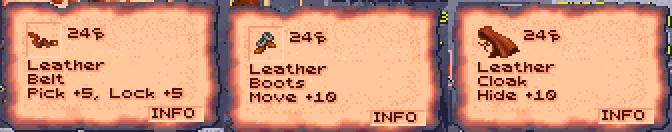
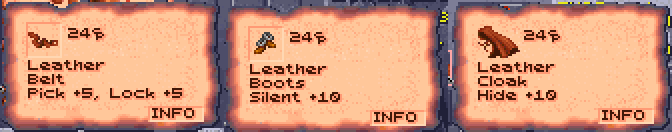
Move silently reads SLNT and Silent; the mod's magic gear glows on figures
The inventory's thief row reads SLNT (MOVE sat beside View Character's
movement), and the item boxes' stealth lines Silent +10 and Silent 95%,
so the Boots of Speed's box no longer reads as extra movement. The
Boots of Speed, the Elvenkind cloak and boots, the girdles and the
amulet glow on the party's figures by type (sprites.MAGIC_TYPES).
Checked in DOSBox; doc pictures retaken; helper sizes unchanged.

Claude-Session: https://claude.ai/code/session_01MpsiU94Q7CT44DgXwo8K6K

Changed region(s): [[0.375, 0.697, 0.5312, 0.7879], [0.3438, 0.0, 0.4062, 0.0606], [0.3125, 0.8788, 0.3438, 0.9697]]

diff --git a/patch-notes.html b/patch-notes.html
@@ -198,7 +198,7 @@ footer { max-width: 1080px; margin: 0 auto; padding-block: 28px 56px; border-top
 </section>
 <section id="graphics">
 <h2>Graphics</h2>
-<ul><li><span class="tag new">New</span>The party's figures show the weapons, shields, armour, helms and cloaks they wear, in each material's colours, walking and fighting.</li><li><span class="tag new">New</span>Magic gear glows on the party's figures: a weapon's bright edge, a shield's boss and rim, and sparks on armour, bracers, cloaks, helms, boots and belts shimmer in the animated colour nearest the item's icon: fire, green, violet or blue. The weapons spells make glow whole, the Flame Blade and Shillelagh in fire and Spiritual Hammer in blue, as do Kreenfang's blades. Boots of Elvenkind now show on the feet, in soft green.</li><li><span class="tag new">New</span>Nineteen of the game's magic items that sat still in their icons now shimmer, as its other magic items do: the Parting Staff, the Chameleon Gloves, the Hornblade, Cahulaks +1, Dag's Dagger, the Terror Blade, Blackmace, the Shimmer, Drake and Silk Armor, Tanelyv's and Grey's arm and leg pieces, the Living Cloak, the Golden Torque, Light of Dawn, El's Ring and the Orb of Knowledge. A plain item sharing an icon with one of them (plain cahulaks, a plain ring) keeps the still one.</li><li><span class="tag new">New</span>Elves have pointed ears.</li><li><span class="tag new">New</span>With ages on, a party member's hair greys on the map as they age: streaks when middle-aged, grey when old, white when venerable (with what the party wears shown).</li><li><span class="tag new">New</span>Half-elves no longer look like humans: a half-elf man is built like the elf, a little broader, with short fair hair, a leather jerkin, green trousers and pointed ears; a half-elf woman is a little slimmer than the human woman, with golden hair in a bun, pointed ears, a purple cloak and red boots.</li><li><span class="tag new">New</span>Every figure casts a soft shadow, and walkers kick up dust on sand and dirt.</li><li><span class="tag new">New</span>A thief or ranger hidden in shadows in a fight, and anyone invisible, is drawn half see-through.</li><li><span class="tag new">New</span>The 6th-level priest spells that stay on the map have pictures of their own: Blade Barrier's circling blades, Wall of Thorns' tangle of thorns, Fire Seeds' fireball and Whirlwind's tall, turning funnel of dust. The blades and thorns are Wake of the Ravager's, read from your copy (GOG sells it with Shattered Lands); without it they are the fire wall, recoloured.</li></ul>
+<ul><li><span class="tag new">New</span>The party's figures show the weapons, shields, armour, helms and cloaks they wear, in each material's colours, walking and fighting.</li><li><span class="tag new">New</span>Magic gear glows on the party's figures: a weapon's bright edge, a shield's boss and rim, and sparks on armour, bracers, cloaks, helms, boots and belts shimmer in the animated colour nearest the item's icon: fire, green, violet or blue. The weapons spells make glow whole, the Flame Blade and Shillelagh in fire and Spiritual Hammer in blue, as do Kreenfang's blades. Boots of Elvenkind now show on the feet, in soft green. The mod's magic gear with no plus (the Boots of Speed, the Elvenkind cloak and boots, the girdles) glows too.</li><li><span class="tag new">New</span>Nineteen of the game's magic items that sat still in their icons now shimmer, as its other magic items do: the Parting Staff, the Chameleon Gloves, the Hornblade, Cahulaks +1, Dag's Dagger, the Terror Blade, Blackmace, the Shimmer, Drake and Silk Armor, Tanelyv's and Grey's arm and leg pieces, the Living Cloak, the Golden Torque, Light of Dawn, El's Ring and the Orb of Knowledge. A plain item sharing an icon with one of them (plain cahulaks, a plain ring) keeps the still one.</li><li><span class="tag new">New</span>Elves have pointed ears.</li><li><span class="tag new">New</span>With ages on, a party member's hair greys on the map as they age: streaks when middle-aged, grey when old, white when venerable (with what the party wears shown).</li><li><span class="tag new">New</span>Half-elves no longer look like humans: a half-elf man is built like the elf, a little broader, with short fair hair, a leather jerkin, green trousers and pointed ears; a half-elf woman is a little slimmer than the human woman, with golden hair in a bun, pointed ears, a purple cloak and red boots.</li><li><span class="tag new">New</span>Every figure casts a soft shadow, and walkers kick up dust on sand and dirt.</li><li><span class="tag new">New</span>A thief or ranger hidden in shadows in a fight, and anyone invisible, is drawn half see-through.</li><li><span class="tag new">New</span>The 6th-level priest spells that stay on the map have pictures of their own: Blade Barrier's circling blades, Wall of Thorns' tangle of thorns, Fire Seeds' fireball and Whirlwind's tall, turning funnel of dust. The blades and thorns are Wake of the Ravager's, read from your copy (GOG sells it with Shattered Lands); without it they are the fire wall, recoloured.</li></ul>
 </section>
 <section id="quality-of-life">
 <h2>Quality of Life</h2>
@@ -494,7 +494,7 @@ The plain weapons the game never had, sold by merchants and carried across Athas
 ## Graphics
 
 - **[New]** The party's figures show the weapons, shields, armour, helms and cloaks they wear, in each material's colours, walking and fighting.
-- **[New]** Magic gear glows on the party's figures: a weapon's bright edge, a shield's boss and rim, and sparks on armour, bracers, cloaks, helms, boots and belts shimmer in the animated colour nearest the item's icon: fire, green, violet or blue. The weapons spells make glow whole, the Flame Blade and Shillelagh in fire and Spiritual Hammer in blue, as do Kreenfang's blades. Boots of Elvenkind now show on the feet, in soft green.
+- **[New]** Magic gear glows on the party's figures: a weapon's bright edge, a shield's boss and rim, and sparks on armour, bracers, cloaks, helms, boots and belts shimmer in the animated colour nearest the item's icon: fire, green, violet or blue. The weapons spells make glow whole, the Flame Blade and Shillelagh in fire and Spiritual Hammer in blue, as do Kreenfang's blades. Boots of Elvenkind now show on the feet, in soft green. The mod's magic gear with no plus (the Boots of Speed, the Elvenkind cloak and boots, the girdles) glows too.
 - **[New]** Nineteen of the game's magic items that sat still in their icons now shimmer, as its other magic items do: the Parting Staff, the Chameleon Gloves, the Hornblade, Cahulaks +1, Dag's Dagger, the Terror Blade, Blackmace, the Shimmer, Drake and Silk Armor, Tanelyv's and Grey's arm and leg pieces, the Living Cloak, the Golden Torque, Light of Dawn, El's Ring and the Orb of Knowledge. A plain item sharing an icon with one of them (plain cahulaks, a plain ring) keeps the still one.
 - **[New]** Elves have pointed ears.
 - **[New]** With ages on, a party member's hair greys on the map as they age: streaks when middle-aged, grey when old, white when venerable (with what the party wears shown).

diff --git a/obsidian-edition/tests/test_figures.py b/obsidian-edition/tests/test_figures.py
@@ -85,6 +85,23 @@ class GearTests(unittest.TestCase):
         sg.draw_belt(out, parts, 42, 2, frozenset((174, 175, 176)))
         self.assertEqual(out[6][2 + 1:2 + 6], [174, 175, sg._by_light(140, sg.BELTS[42]), 175, 174])
 
+    def test_magic_types_glow(self):
+        """The mod's magic gear with no plus or power (the Boots of Speed, Elvenkind, the girdles,
+        the amulet) glows on a figure as magic; plain gear doesn't."""
+        from dsloader import game
+
+        def item(kind, plus=0, power=0):
+            rec = bytearray(game.ITEM_SIZE)
+            struct.pack_into("<H", rec, game.ITEM_TYPE, kind)
+            rec[game.ITEM_PLUS], rec[game.ITEM_POWER] = plus & 0xFF, power
+            return bytes(rec)
+        for kind in (game.SPEED_BOOTS_TYPE, game.ELVEN_CLOAK_TYPE, game.ELVEN_BOOTS_TYPE,
+                     game.BACK_GIRDLE_TYPE, game.URNST_GIRDLE_TYPE, game.MR_AMULET_TYPE):
+            self.assertTrue(sprites._magic(item(kind)), kind)
+        self.assertFalse(sprites._magic(item(0x2C)))
+        self.assertTrue(sprites._magic(item(0x2C, plus=1)))
+        self.assertFalse(sprites._magic(item(0x2C, plus=-1)))
+
     def test_armour_only_where_worn(self):
         """Armour recolours the figure's own clothes (Own.clothes), only where it wore them."""
         rows = [[N, 140, 140, N]] * 3 + [[N, 204, 205, N]] * 4

diff --git a/obsidian-edition/dsloader/sprites.py b/obsidian-edition/dsloader/sprites.py
@@ -386,9 +386,16 @@ def new_room(chunks, new: Dict[Tuple[str, int], bytes], looks: bool = True) -> D
     return out
 
 
+# The mod's magic items whose magic is the helper's or the Loader's, not a plus or a spell power: by
+# their types (the Boots of Speed, the Cloak and Boots of Elvenkind, the girdles, the amulet)
+MAGIC_TYPES = frozenset((game.SPEED_BOOTS_TYPE, game.ELVEN_CLOAK_TYPE, game.ELVEN_BOOTS_TYPE,
+                         game.BACK_GIRDLE_TYPE, game.URNST_GIRDLE_TYPE, game.MR_AMULET_TYPE))
+
+
 def _magic(item) -> bool:
-    """A plus or a power."""
-    return struct.unpack("b", item[game.ITEM_PLUS:game.ITEM_PLUS + 1])[0] > 0 or bool(item[game.ITEM_POWER])
+    """A plus or a power, or one of MAGIC_TYPES."""
+    return struct.unpack("b", item[game.ITEM_PLUS:game.ITEM_PLUS + 1])[0] > 0 or bool(item[game.ITEM_POWER]) \
+        or struct.unpack_from("<H", item, game.ITEM_TYPE)[0] in MAGIC_TYPES
 
 
 def item_glow(chunks, item) -> int:

diff --git a/obsidian-edition/FEATURES.md b/obsidian-edition/FEATURES.md
@@ -255,15 +255,15 @@ right-hand panel, drawn by the game's text routine so they look like the rest:
   (`T14`);
 - right of the abilities, level with STR to CHA, for a character with thief
   levels, six **thief skills**: `PICK` pockets, open `LOCK`s, find/remove
-  `TRAP`s, `MOVE` silently, `HIDE` in shadows and `CLMB` walls. Move silently
+  `TRAP`s, `SLNT` (move silently), `HIDE` in shadows and `CLMB` walls. Move silently
   and hide in shadows are the ones the Loader rolls (for [picking
   pockets](#picking-pockets) and [hiding to
   backstab](#hiding-in-shadows-to-backstab)). A worn belt's 5 is in
   `PICK` and `LOCK`, and with hiding to backstab a worn cloak's 10 in `HIDE` and
-  boots' 10 in `MOVE` (95 for the Cloak and Boots of Elvenkind). Hear noise (one
+  boots' 10 in `SLNT` (95 for the Cloak and Boots of Elvenkind). Hear noise (one
   script check) and read languages (a Shinobi's, for a scroll: on its
   [Effects screen](#the-effects-screen)) are left out for want of room. A
-  ranger, with hiding to backstab on, gets their `MOVE` and `HIDE` in the same
+  ranger, with hiding to backstab on, gets their `SLNT` and `HIDE` in the same
   places, the cloak and boots counted (the other four left out);
 - right of SP in the saves (where RSW and BW sit on the rows above), the DEX
   **reaction adjustment** (`REAC +4`): −6 at DEX 1 to +5 at DEX 24-25, the
@@ -1792,7 +1792,7 @@ under the open sky, half indoors** (the same maps and floors as for thieves).
 Their attack from behind gets +2 to hit, and the target's DEX and shield don't
 count, but it is never a backstab. Armour doesn't matter, nor does what they
 hold. The Characters tab shows a ranger's two chances (**Ranger skills now**),
-and the game's inventory screen shows them where a thief's `MOVE` and `HIDE`
+and the game's inventory screen shows them where a thief's `SLNT` and `HIDE`
 go. Someone with thief levels hides as a thief.
 
 ```
@@ -1806,10 +1806,10 @@ adds 10 to hiding in shadows (before daylight halves it) and worn boots add 10
 to moving silently, for rangers too, up to 95:
 `needs 18 or less (26 +10 cloak = 36, halved in daylight)`. A cloak's or
 boots' item box (right-click it on the inventory screen) says so under its
-name, `Hide +10` or `Move +10` (the skills' short names, as the
-inventory screen's thief rows have them).
+name, `Hide +10` or `Silent +10` ("Silent", not "Move", so a box
+can't read as walking speed; the inventory screen's thief row is `SLNT`).
 
-![Item boxes in the game: a Leather Belt's "Pick +5, Lock +5", Leather Boots' "Move +10" and a Leather Cloak's "Hide +10", each at 24](docs/gear-boxes.png)
+![Item boxes in the game: a Leather Belt's "Pick +5, Lock +5", Leather Boots' "Silent +10" and a Leather Cloak's "Hide +10", each at 24](docs/gear-boxes.png)
 
 The [Cloak and Boots of Elvenkind](#new-items) do more (whatever the plain
 gear's switch). Only thieves and rangers can wear them (multiclasses too; for
@@ -1817,9 +1817,9 @@ anyone else, the game's "Cannot use this item"). In the cloak, hiding in
 shadows needs 95 or less under the open sky and 90 under a roof, not halved by
 the light (AD&D's: all but invisible in the wild, 90% among buildings), unless
 their own chance is better; in the boots, moving silently needs 95 or less.
-Their boxes say `Hide 90-95%` and `Move 95%`.
+Their boxes say `Hide 90-95%` and `Silent 95%`.
 
-![Item boxes in the game: the Cloak of Elvenkind's "Hide 90-95%", 25,000; the Boots of Elvenkind's "Move 95%", 20,000](docs/elvenkind.png)
+![Item boxes in the game: the Cloak of Elvenkind's "Hide 90-95%", 25,000; the Boots of Elvenkind's "Silent 95%", 20,000](docs/elvenkind.png)
 
 The same switch has a worn **belt** add 5 to a thief's **picking pockets and
 opening locks**, whether hiding is on or not: the game's own lock picking

diff --git a/playtest/logs/2026-11-09-silent-labels.md b/playtest/logs/2026-11-09-silent-labels.md
@@ -1,0 +1,29 @@
+# The Silent labels and the magic gear's glow (2026-11-09)
+
+Under test: DSCLOG's L_MOVE ('SLNT', the inventory's thief row), IB_QUIET ('Silent +10') and
+IB_ELF_QUIET ('Silent 95%'), and the Loader's `sprites._magic` taking the mod's magic types
+(`MAGIC_TYPES`: the Boots of Speed, the Elvenkind cloak and boots, the girdles, the amulet) as magic.
+Build: `buildcheck.py` OK (134 vectors at their handlers, the tail same as the EXE).
+
+Steps, from `loadsave.sh pens-after-arena` (nobody wears boots there):
+
+- Gerakis's Arm Armor (item 25, in his worn list) made the Boots of Speed in memory (a scratch
+  setboots.py: worldgear.SPEED_BOOTS, slot 13). Inventory (I), right-click the feet place
+  (**174,147**): "Leather / Boots of Speed / **Silent +10**".
+- Its type made the Boots of Elvenkind (135) in memory, the portrait switched away and back: the box
+  reads "**Silent 95%**".
+- Cilla's portrait (member 3, 22,160): the thief rows read PICK 70, LOCK 55, TRAP 45, **SLNT 57**,
+  HIDE 50, CLMB 87 (logs/img/2026-11-09-silent-slnt.png).
+- **The glow**: `sprites.worn(gd, 0)` gave `'boots': (145, 5, 'magic', 0)` (before the fix it had no
+  'magic'). Gerakis's figure showed no boots at all, in any colour, so no glint either: his figure's
+  feet aren't where `draw_boots` looks (not looked into further; his plain gear isn't drawn on the
+  feet either). Moved through the inventory (click the item, the other portrait, the feet place),
+  the boots went to Cilla: her feet are drawn red and a few pixels at them change from frame to
+  frame, the glint (logs/img/2026-11-09-silent-glint.png, eight grabs 0.2 s apart).
+- Doc pictures retaken: plain Leather Boots (the game's first plain type-68 record) and the Boots
+  of Elvenkind (worldgear.ELVEN_BOOTS) put on item 25 in memory, each box shot and cropped
+  112x66 at +183,+95, scaled 200%, into docs/gear-boxes.png's middle panel and
+  docs/elvenkind.png's right one.
+
+Memory edits only; the game was not saved. The helper's sizes are unchanged (resident_end 61,392,
+kept_end 62,800, UMB_KEPT 7,825).

diff --git a/PATCH-NOTES.md b/PATCH-NOTES.md
@@ -266,7 +266,7 @@ The plain weapons the game never had, sold by merchants and carried across Athas
 ## Graphics
 
 - **[New]** The party's figures show the weapons, shields, armour, helms and cloaks they wear, in each material's colours, walking and fighting.
-- **[New]** Magic gear glows on the party's figures: a weapon's bright edge, a shield's boss and rim, and sparks on armour, bracers, cloaks, helms, boots and belts shimmer in the animated colour nearest the item's icon: fire, green, violet or blue. The weapons spells make glow whole, the Flame Blade and Shillelagh in fire and Spiritual Hammer in blue, as do Kreenfang's blades. Boots of Elvenkind now show on the feet, in soft green.
+- **[New]** Magic gear glows on the party's figures: a weapon's bright edge, a shield's boss and rim, and sparks on armour, bracers, cloaks, helms, boots and belts shimmer in the animated colour nearest the item's icon: fire, green, violet or blue. The weapons spells make glow whole, the Flame Blade and Shillelagh in fire and Spiritual Hammer in blue, as do Kreenfang's blades. Boots of Elvenkind now show on the feet, in soft green. The mod's magic gear with no plus (the Boots of Speed, the Elvenkind cloak and boots, the girdles) glows too.
 - **[New]** Nineteen of the game's magic items that sat still in their icons now shimmer, as its other magic items do: the Parting Staff, the Chameleon Gloves, the Hornblade, Cahulaks +1, Dag's Dagger, the Terror Blade, Blackmace, the Shimmer, Drake and Silk Armor, Tanelyv's and Grey's arm and leg pieces, the Living Cloak, the Golden Torque, Light of Dawn, El's Ring and the Orb of Knowledge. A plain item sharing an icon with one of them (plain cahulaks, a plain ring) keeps the still one.
 - **[New]** Elves have pointed ears.
 - **[New]** With ages on, a party member's hair greys on the map as they age: streaks when middle-aged, grey when old, white when venerable (with what the party wears shown).

diff --git a/playtest/PLAYTESTING.md b/playtest/PLAYTESTING.md
@@ -510,7 +510,17 @@ panel shows only after `L` (panel.sh reads "hidden" for the expanded panel: look
   (195,26), (195,44), (195,62), (195,80)... (rows 18 apart; 48 and 70 are between cells), then
   (213,26)... Click an item to pick it up, click a place to put it; armour can't be put on in a
   fight ("CANNOT USE THIS ITEM"); a wrong place says "ILLEGAL PLACEMENT" and keeps it on the
-  pointer.
+  pointer. **The feet** are at (174,147) (2026-11-09, logs/2026-11-09-silent-labels.md); a
+  right-click there opens the boots' box. **To give an item to another member**: click it, click
+  the other's portrait (22,160 for the fourth), click the place. An item turned into another in
+  memory (a whole record but its link +4, flags +10h and slot +11h, so the price comes with it)
+  shows in its box once the portrait is switched away and back.
+- **Checking a figure's glow** (2026-11-09): `sprites.worn(gd, MEMBER)` (through live.py) gives what
+  the Loader dresses it in, `'magic'` on a magic piece; then eight `import -window` grabs 0.2 s apart,
+  cropped round the piece and montaged: a glint is a few pixels changing between grabs (the pointer's
+  animation changes pixels too: keep it away). Gerakis's figure (pens-after-arena) showed no boots
+  at all, plain or magic; Cilla's showed them. `memberpos.py N` out of a fight gave the leader's
+  place for every member: find the figure on a shot.
 - **A spell's description box** (2026-11-02): U, a member's portrait (Cermak 66,108), then
   right-click a spell's icon (from 177,59, about 14 apart). Seven lines fill the box: an eighth
   spills over its edge, so check a lengthened text in the game. A new wizard spell is known by a

diff --git a/CHANGELOG.md b/CHANGELOG.md
@@ -43,6 +43,16 @@ Releases, newest first: [2.14.1](#pull-request-88-merged-2026-11-08) (#88),
 DSCLOG.EXE 65,744 bytes (image 65,712), 2,736 of its segment spare.
 
 **Changed**
+- **The move-silently labels say "Silent"**: the inventory screen's thief row reads `SLNT` (it read
+  `MOVE`, beside View Character's MOVE, the character's movement), and the item boxes' stealth lines
+  `Silent +10` (boots) and `Silent 95%` (the Boots of Elvenkind) for `Move +10` and `Move 95%`: the
+  Boots of Speed's box read as if every pair of boots added movement (the user's catch). DSCLOG's
+  L_MOVE, IB_QUIET and IB_ELF_QUIET; its sizes unchanged. docs/gear-boxes.png and docs/elvenkind.png
+  retaken. Seen in DOSBox: playtest/logs/2026-11-09-silent-labels.md.
+- **The mod's magic gear with no plus or power glows on the figures**: the Boots of Speed, the
+  Cloak and Boots of Elvenkind, the Girdles of Back Defense and of Urnst (and the Amulet of Magic
+  Resistance, should a figure ever show the neck), by type (`sprites.MAGIC_TYPES`): the glow had
+  gone by a plus or a power only.
 - **New: the Boots of Speed** (the DMG's; the user's item), worn on the feet by anyone: in a fight the
   wearer's movement doubled and AC 2 better while it can move (not Stuck, Paralyzed or Slowed);
   nothing out of a fight. DSCLOG's type SPEED_BOOTS (the 31st extra type, the game's Boots'), name
